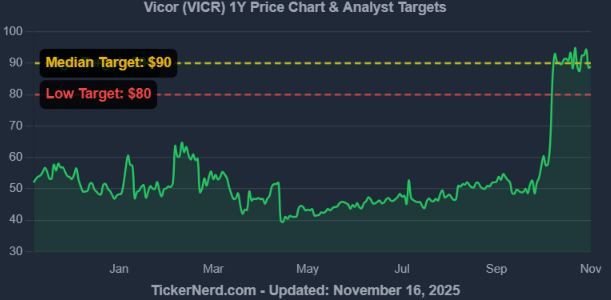
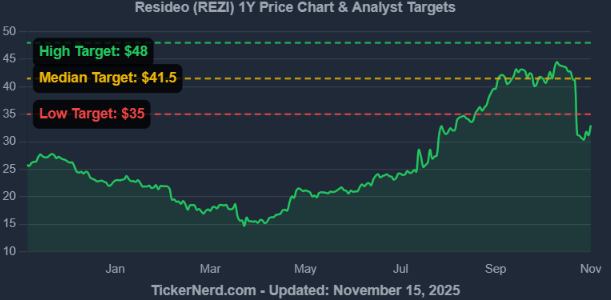
New Readme

diff --git a/README.md b/README.md
@@ -1,4 +1,98 @@
-# IOG
-<br>
-[<img src="LLM.png">](https://www.youtube.com/watch?v=Sz4qacFBHLk/)
+# IOG (Investment Opportunity Generator)
+This project aims at showing a web application I developped for investing in the stock market. It includes:
+1. Scrapping functions, developed with Python and APIfied with Flask
+2. An LLM API using my computer's NVIDIA GPU and hugging-face bart-large-cnn for text summarization
+3. An angular application to use said APIs in a visual interactive context
 
+
+I did not publish my angular code. I did however commit all the python functions and APIs for anyone that whishes to copy or use them. All the functions are correctly commented, including a description, its arguments and its output.  
+
+Here you can access a demo of the angular app (total of **3mins**, but recommended to play it a 1.5 speed):
+
+<a href="https://youtu.be/LkixjV7Zq2M"><img src="assets/IOG.png" alt="HTML tutorial"></a>
+
+## Reference table
+
+| Section                                                                                                                    | Description |
+|-----------------------------------------------------------------------------------------------------------------------------|-------------|
+| [Project structure](#project-structure)       | Project structure explanation. |
+| [Previous requirements](#previous-requirements)                                                                                   | List of previous requirements needed. |
+| [Usage](#usage)       | Usage of the APIs. |
+
+
+## Project structure
+
+### 1. "APIs" folder
+This folder contains all the code to deploy the APIs:
+1. scrappers.py: APIs for scrapping, deploy using "python scrappers.py" and available to try with POSTMAN (collection included in this GitHub repo)
+2. app.py: API for text summarization (LLM x GPU), deploy using "uvicorn app:app --host 0.0.0.0 --port 5005" and available to try with POSTMAN (collection included in this GitHub repo)
+
+### 2. "Pyfuncs" folder
+This folder contains all the developed functions that the API code uses:
+1. iog.py: Functions for the investment opportunity section of the app
+2. press_releases.py: Functions to scrapp the information related to yahoo finance press releases
+3. summarizer.py: Functions related to the text summarization API
+4. tickernerd.py: Functions to scrapp information for a given ticker in both tickernerd and danelfin
+
+
+### 3. Other files
+1. chromedriver.exe: Chromedriver used by danelfin and to instantiate with the undetected chromedriver library ("start_driver_undetected" in "press_releases.py"). Make sure your chrome version is compatible with this driver version (142).
+2. IOG.postman_collection.json: POSTMAN collection so that you can try your APIs when deployed
+
+## Previous requirements
+
+### 1. Conda
+We will use a conda environment called "iog".
+- In order to create it:
+```bash
+conda create --name iog python=3.10.19
+conda activate iog
+conda install -n iog ipykernel --update-deps --force-reinstall
+```
+ - This environment will require the following installations:
+    - flask
+    - selenium
+    - pandas
+    - webdriver-manager
+    - bs4
+    - yfinance
+    - undetected-chromedriver
+    - uvicorn
+
+### 2. CUDA
+You will need to have an NVIDIA GPU in your system, and the corresponding driver also installed. Then, make sure you have a matching pyTorch version installed. You can verify if everything works with the following commands:
+1. conda activate iog
+2. python
+3. > ... import torch
+4. > ... torch.cuda.is_available()
+
+In my case I had:
+- CUDA: cuda_12.8.0_571.96_windows.exe
+- torch: 2.9.0+cu128 
+
+If you are not sure which versions to use:
+1. Open cmd
+2. Type nvidia-smi
+3. Search for your corresponding NVIDIA DRIVER 
+4. Download and install the CUDA TOOLKIT: (ex: https://developer.nvidia.com/cuda-12-8-0-download-archive?target_os=Windows&target_arch=x86_64&target_version=11&target_type=exe_local)
+5. Search for the corresponding pyTorch version and install it inside your conda environment
+
+### 3. Paths and credentials
+1. Some lines of code use paths, and will hence fail if directly executed. Beware of this and correct it using the adequate paths within your computer
+2. A lot of functions use "credentials.py", mostly for proxy credentials setting. Create a file as follows and set it up with your credentials information:
+
+    ```bash
+    class Credentials:
+        http_proxy:str = "http://..."
+        https_proxy:str = "http://..."
+        proxy_server: str = "...
+
+## Usage
+1. Make sure everything is correctly set up. (See requirements section).
+2. Deploy the APIs (see "Project structure", "APIs Folder").
+3. Open POSTMAN and load the collection (all scrapping functions will actually open a chrome driver when executed):
+    - a. Use **GENERATE_OPPORTUNITIES** to create your winners.json file. Since it takes a while (approx 2 mins), the idea is that it should be executed once a day with a job, and then the results can be readed directly at any time using **READ_OPPORTUNITIES**
+    - b. Use **LOAD_TICKERS_IN_OTHERS** to get, for a given ticker: its company summary, tickernerd investment strategy, danelfin investment strategy and a foto of its chart
+    - c. Use **GET_PRESS_RELEASES** to get, for a given ticker, a list with 5 press releases by month from all available yahoo finance press releases for that ticker
+    - d. Use **SCRAP_PRESS_RELEASES** to get, for a list of URLS, its scrapped content
+    - e. Use **SUMMARIZER** to get, for a given text, its summarized version (using a hugging-face-LLM through your GPU)
